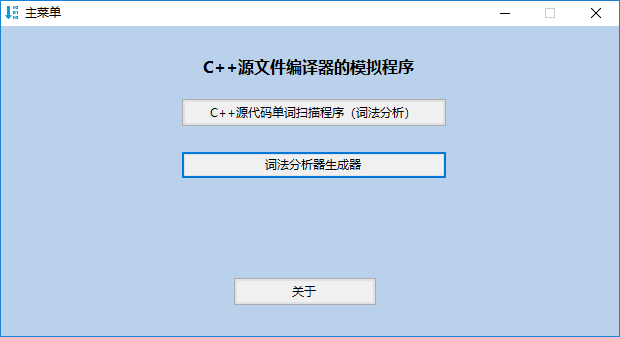
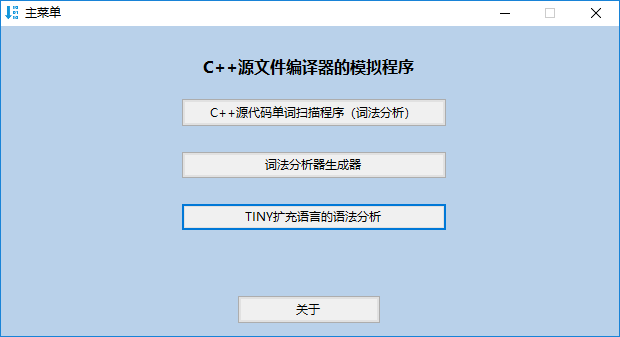
v3.0.0(完成TINY扩充语言的语法分析模块)

Changed region(s): [[0.3677, 0.8012, 0.6129, 0.9792], [0.2758, 0.5935, 0.7355, 0.6825], [0.2758, 0.4451, 0.7355, 0.5341]]

diff --git a/README.md b/README.md
@@ -46,10 +46,12 @@
 ![6](https://github.com/Yuziquan/CppCompiler/blob/master/Screenshots/6.png)
 
 ***
-#### 4. xxx
+#### 4. TINY扩充语言的语法分析
 
+![7](Screenshots/7.png)
 
-
+***
+#### 5. xxx
 
 。。。。。。。(后期要开发的菜单项)
 
@@ -89,12 +91,17 @@
 #### 4、V2.0.0
 * 完成词法分析器生成器模块(正则表达式若超过一定长度，会崩溃，有bug，下一个子版本会修复)；
 
+***
+
+#### 5、V3.0.0
+
+* 完成TINY扩充语言的语法分析模块；
 
 ***
 
 ### 四、当前版本
 
-**V2.0.0**
+**V3.0.0**
 
 ***
 
